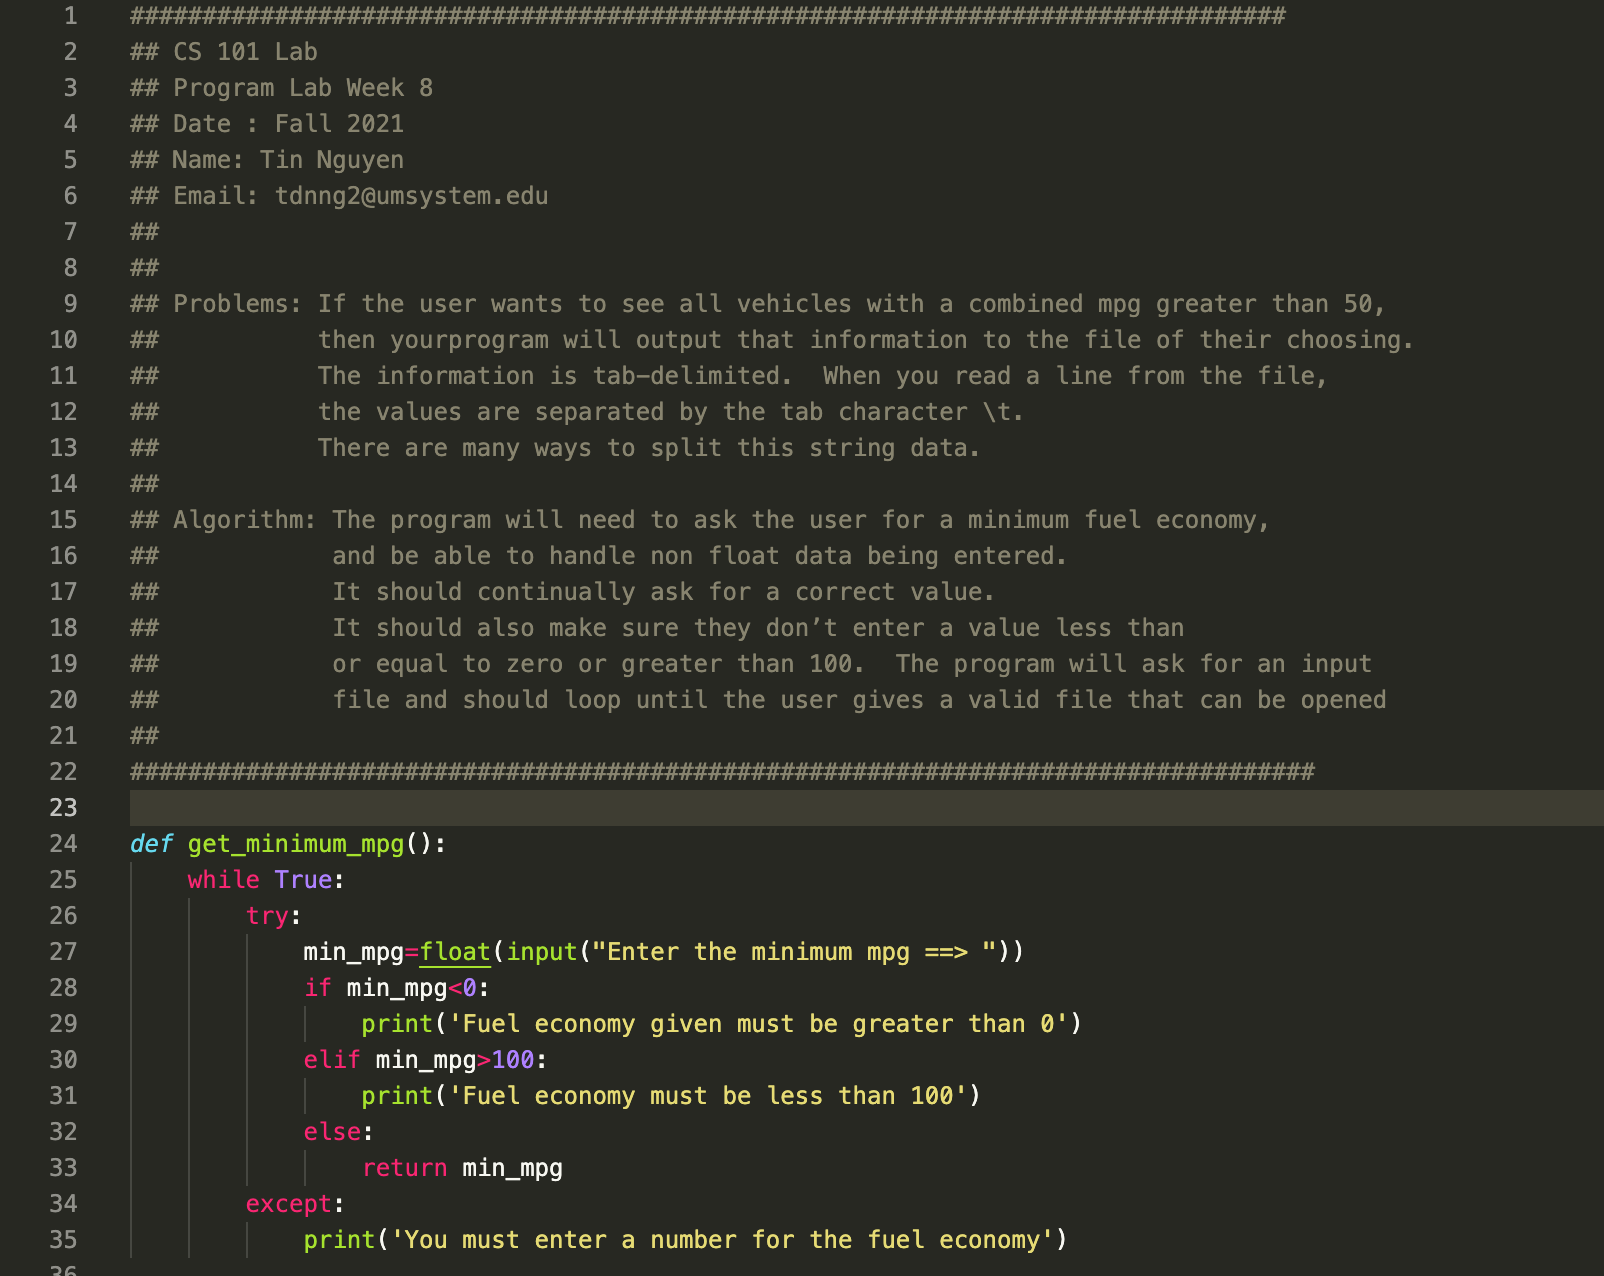
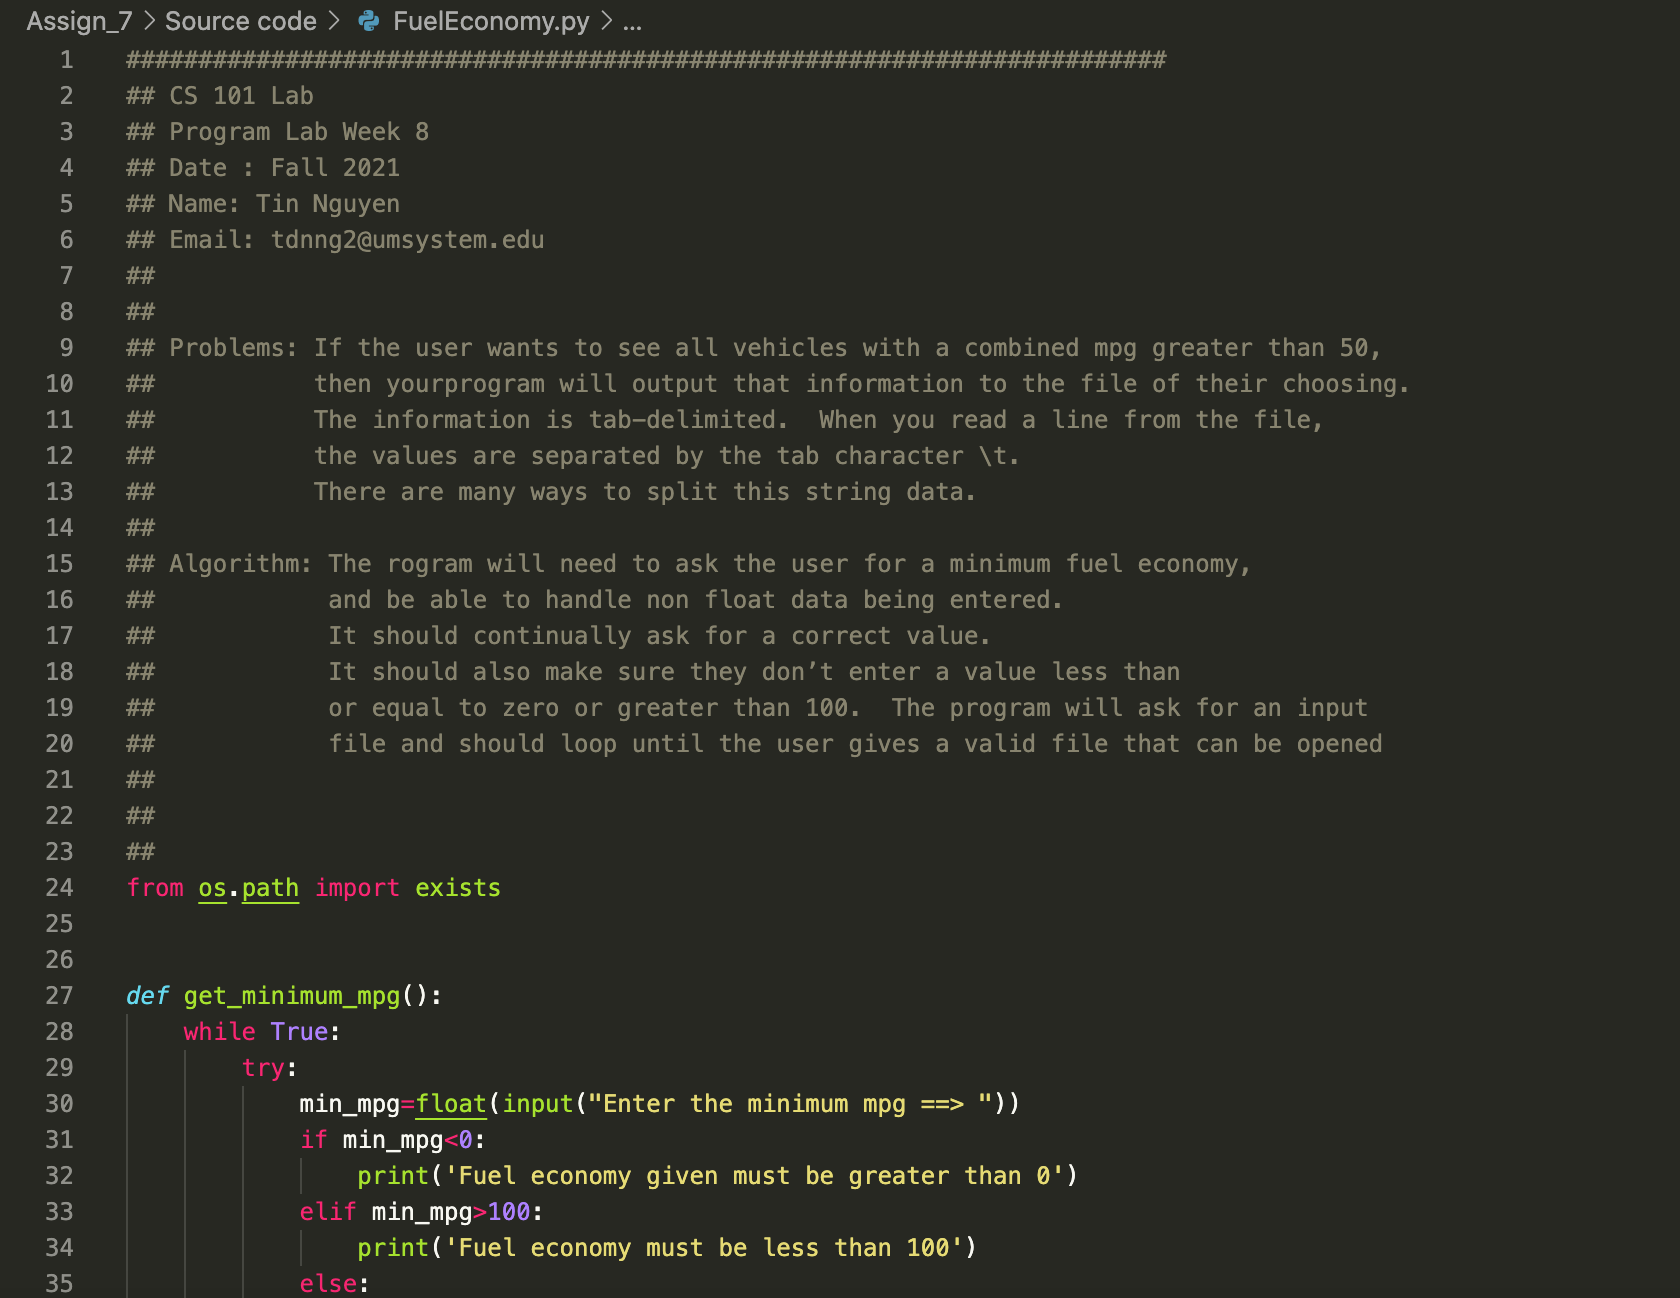
Solution.py

Changed region(s): [[0.0, 0.0, 0.8728, 1.0]]

diff --git a/Assign_7/Source code/FuelEconomy.py b/Assign_7/Source code/FuelEconomy.py
@@ -1,4 +1,4 @@
-################################################################################
+########################################################################
 ## CS 101 Lab
 ## Program Lab Week 8
 ## Date : Fall 2021
@@ -12,14 +12,17 @@
 ##           the values are separated by the tab character \t. 
 ##           There are many ways to split this string data.
 ##
-## Algorithm: The program will need to ask the user for a minimum fuel economy, 
+## Algorithm: The rogram will need to ask the user for a minimum fuel economy, 
 ##            and be able to handle non float data being entered.  
 ##            It should continually ask for a correct value.  
 ##            It should also make sure they don’t enter a value less than 
 ##            or equal to zero or greater than 100.  The program will ask for an input
 ##            file and should loop until the user gives a valid file that can be opened
 ##
-##################################################################################
+##
+##
+from os.path import exists
+
 
 def get_minimum_mpg():
     while True:
@@ -37,28 +40,30 @@ def get_minimum_mpg():
 def get_input_file():
     while True:
         file_name=input('Enter the name of the input vehicle file ==> ')
-        try:
-            with open(file_name,'r') as read_file:
+        if exists(file_name):
+            with open(file_name) as read_file:
                 return [[data.strip() for data in line.strip().split('\t')] for line in read_file.readlines()]
 
-        except:
+        else:
             print('Could not open file',file_name)
 
 
 def write_to_file(min_mileage,file_data):
     while True:
-        try:
-            file_name = input('Enter the name of the file to output to ==> ')
+        file_name = input('Enter the name of the file to output to ==> ')
+        if exists(file_name):
             with open(file_name,'w') as write_file:
                 for data in file_data:
                     try:
-                        if min_mileage>=float(data[7]):
+                        if min_mileage >= float(data[7]):
                             write_file.write('{0:<5}{1:<40}{2:<40}{3:>10}\n'.format(data[0],\
                             data[1],data[2],data[7]))
-                    except:
-                        print('Could not convert value invalid for vehicle',data[0],data[1],data[2])
-        except:
+                            
+                    except ValueError:
+                        print('Could not convert value {} for vehicle {} {} {}'.format(data[7],data[0],data[1],data[2]))
+        else:
             print('There is an IO Error',file_name)
+        break
 
 
 def main():
